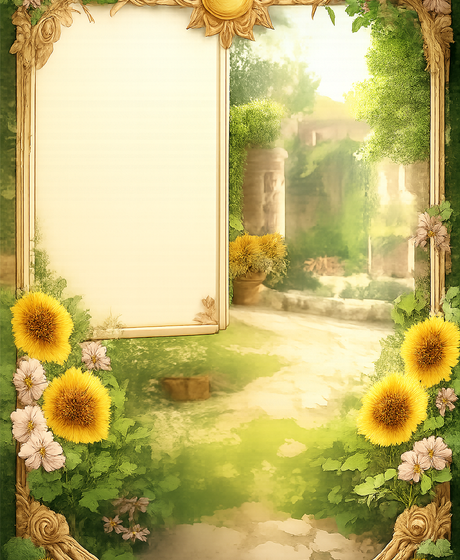
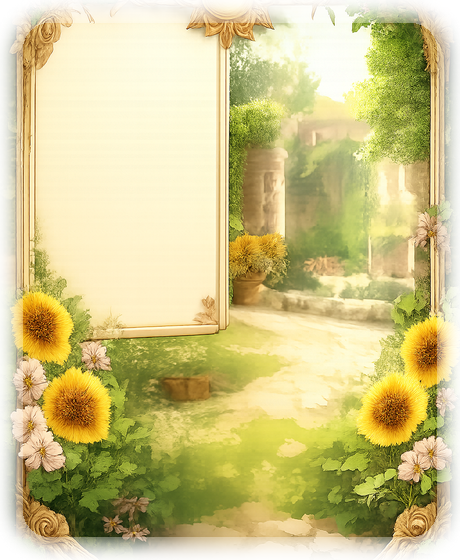
polish: refine world select image panels

Changed region(s): [[0.0, 0.0, 1.0, 1.0]]

diff --git a/RELEASE_NOTES_v1.0.79.md b/RELEASE_NOTES_v1.0.79.md
@@ -1,0 +1,6 @@
+# v1.0.79
+
+- Refined the Image2 world selection screen so title and card text stay inside their visible boards.
+- Softened world card PNG edges to avoid hard square cutoffs in the carousel.
+- Replaced the selected-card hard rectangle highlight with an alpha-shaped Image2 glow.
+- Added regression coverage for world-select plaque text bounds and soft card edges.
